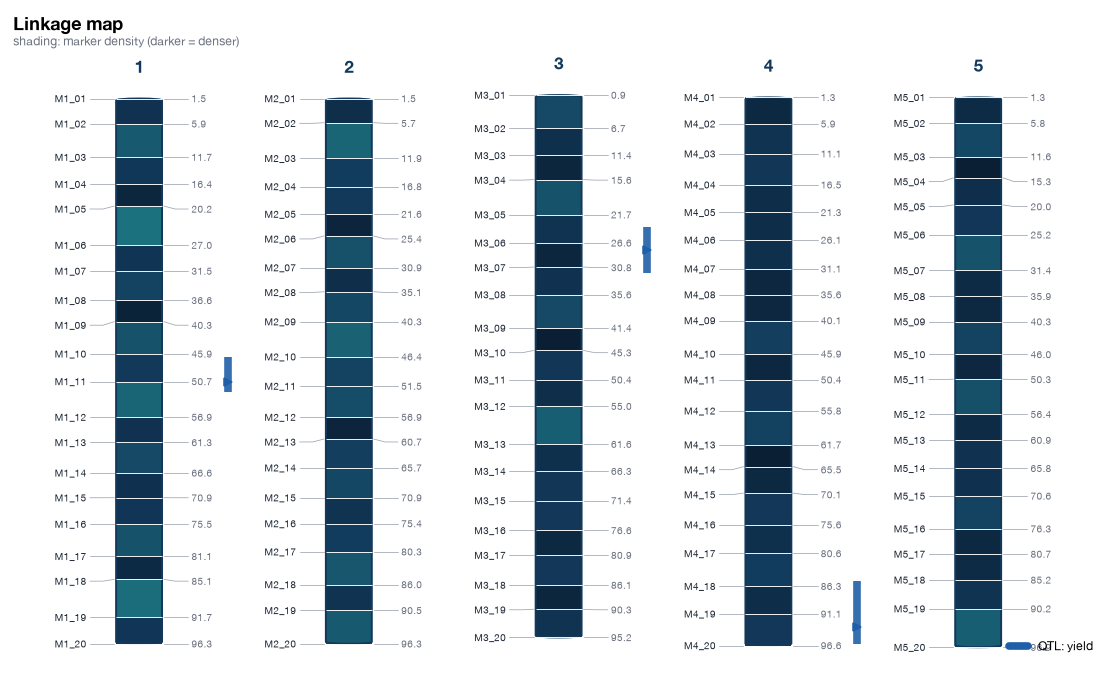
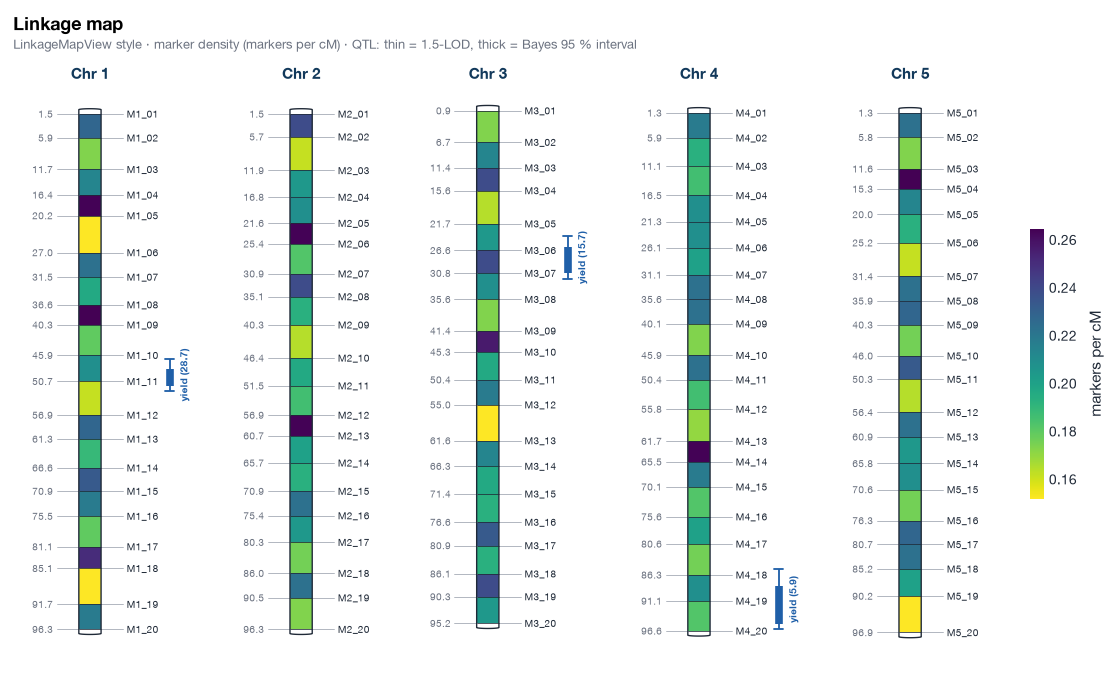
Update tutorial site from qtlmapper3 f2cd32c

diff --git a/index.html b/index.html
@@ -210,7 +210,7 @@ MQTL3.3       100.22     96.88    103.56             4 0.255 0.258507        flo
 MQTL4.1        70.17     67.64     72.71             4 0.000 0.440730       flowering;height
 MQTL5.1        45.43     42.44     48.42             5 0.295 0.224905 flowering;height;yield
    outliers (|z|&gt;3): 0 · ambiguous memberships: 0
-✓ metaqtl done in 31.4 s → results/metaqtl</span></pre><figure class=""><a href="img/metaqtl/metaqtl_chr3.png"><img loading="lazy" src="img/metaqtl/metaqtl_chr3.png" alt="Chromosome 3: QTL intervals by trait, three meta-QTL with 95 % CIs, and the QTL overview index."></a><figcaption>Chromosome 3: QTL intervals by trait, three meta-QTL with 95 % CIs, and the QTL overview index.</figcaption></figure><figure class=""><a href="img/metaqtl/metaqtl_genome.png"><img loading="lazy" src="img/metaqtl/metaqtl_genome.png" alt="Genome overview: every meta-QTL, the QTL behind it and the overview density."></a><figcaption>Genome overview: every meta-QTL, the QTL behind it and the overview density.</figcaption></figure><figure class=""><a href="img/metaqtl/model_selection_chr3.png"><img loading="lazy" src="img/metaqtl/model_selection_chr3.png" alt="Model selection: five criteria agree on K = 3; Akaike weights show the support."></a><figcaption>Model selection: five criteria agree on K = 3; Akaike weights show the support.</figcaption></figure><figure class=""><a href="img/metaqtl/projection_S3_chr2.png"><img loading="lazy" src="img/metaqtl/projection_S3_chr2.png" alt="Projection of study S3 onto the consensus map; the inverted markers (red) are excluded."></a><figcaption>Projection of study S3 onto the consensus map; the inverted markers (red) are excluded.</figcaption></figure><h3>Variant annotation with snpEff</h3><p>QTLMapper3 runs an installed <a href='https://pcingola.github.io/SnpEff/'>snpEff</a> (Cingolani <i>et al.</i> 2012; not bundled) and turns its <code>ANN</code> field into tables, a summary figure and annotated GWAS/QTL hit lists with nearest genes.</p><pre class="term"><span class="prompt">qtlmapper3 annotate databases --search oryza
+✓ metaqtl done in 36.1 s → results/metaqtl</span></pre><figure class=""><a href="img/metaqtl/metaqtl_chr3.png"><img loading="lazy" src="img/metaqtl/metaqtl_chr3.png" alt="Chromosome 3: QTL intervals by trait, three meta-QTL with 95 % CIs, and the QTL overview index."></a><figcaption>Chromosome 3: QTL intervals by trait, three meta-QTL with 95 % CIs, and the QTL overview index.</figcaption></figure><figure class=""><a href="img/metaqtl/metaqtl_genome.png"><img loading="lazy" src="img/metaqtl/metaqtl_genome.png" alt="Genome overview: every meta-QTL, the QTL behind it and the overview density."></a><figcaption>Genome overview: every meta-QTL, the QTL behind it and the overview density.</figcaption></figure><figure class=""><a href="img/metaqtl/model_selection_chr3.png"><img loading="lazy" src="img/metaqtl/model_selection_chr3.png" alt="Model selection: five criteria agree on K = 3; Akaike weights show the support."></a><figcaption>Model selection: five criteria agree on K = 3; Akaike weights show the support.</figcaption></figure><figure class=""><a href="img/metaqtl/projection_S3_chr2.png"><img loading="lazy" src="img/metaqtl/projection_S3_chr2.png" alt="Projection of study S3 onto the consensus map; the inverted markers (red) are excluded."></a><figcaption>Projection of study S3 onto the consensus map; the inverted markers (red) are excluded.</figcaption></figure><figure class=""><a href="img/metaqtl/comparative_maps_chr2.png"><img loading="lazy" src="img/metaqtl/comparative_maps_chr2.png" alt="Comparative linkage maps (LinkageMapView style): six study maps and the consensus, shared markers connected."></a><figcaption>Comparative linkage maps (LinkageMapView style): six study maps and the consensus, shared markers connected.</figcaption></figure><h3>Variant annotation with snpEff</h3><p>QTLMapper3 runs an installed <a href='https://pcingola.github.io/SnpEff/'>snpEff</a> (Cingolani <i>et al.</i> 2012; not bundled) and turns its <code>ANN</code> field into tables, a summary figure and annotated GWAS/QTL hit lists with nearest genes.</p><pre class="term"><span class="prompt">qtlmapper3 annotate databases --search oryza
 qtlmapper3 annotate run --vcf calls.vcf.gz --genome Oryza_sativa --download -o results/annotate
 qtlmapper3 annotate hits --hits results/gwas/gwas_yield_significant.csv \
     --vcf results/annotate/annotated.vcf --gff genes.gff3 --flank 50000 -o results/annotate</span></pre><pre class="term"><span class="prompt">$ qtlmapper3 annotate parse --vcf example.ann.vcf \
